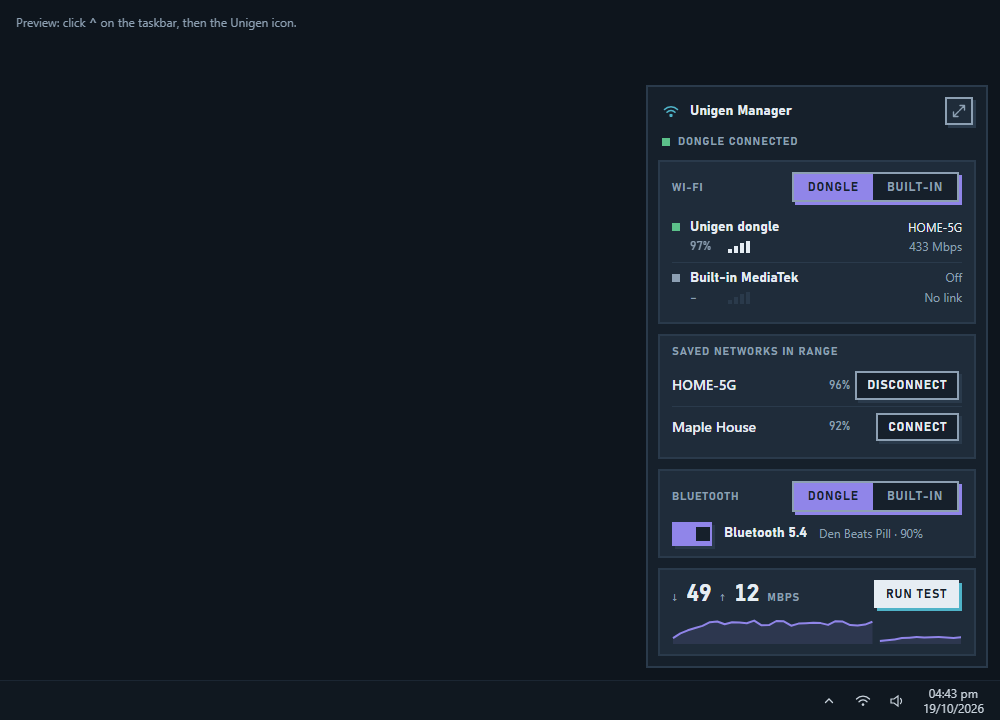
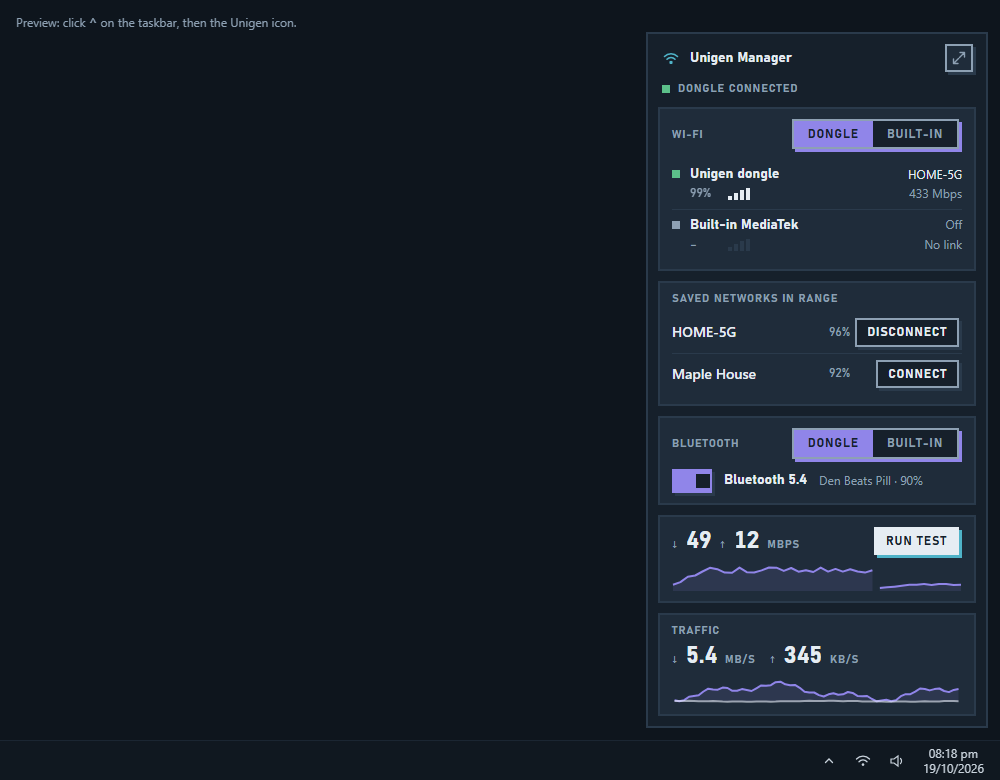
docs: describe the Traffic module; add its screenshot, refresh the widget one, and the manual checks

diff --git a/README.md b/README.md
@@ -12,7 +12,7 @@
 ![Python 3.10](https://img.shields.io/badge/Python-3.10-0E151D?style=flat-square&logo=python&logoColor=4FB3C8)
 ![pywebview](https://img.shields.io/badge/UI-pywebview%20%2B%20WebView2-0E151D?style=flat-square)
 ![anime.js](https://img.shields.io/badge/motion-anime.js%204-0E151D?style=flat-square)
-![Tests](https://img.shields.io/badge/tests-404%20passing-5CC08A?style=flat-square)
+![Tests](https://img.shields.io/badge/tests-445%20passing-5CC08A?style=flat-square)
 
 <a href="https://github.com/ApurvDas/unigen-manager/releases/latest/download/UnigenManager.exe"><img src="https://img.shields.io/badge/Download-UnigenManager.exe%20%C2%B7%2033%20MB-4FB3C8?style=for-the-badge&logo=windows&logoColor=white" alt="Download UnigenManager.exe" height="44"></a>
 
@@ -82,7 +82,23 @@ Older versions and checksums are on the [releases page](https://github.com/Apurv
 ### 🧭 Always-on tray widget
 - Live status of both adapters, the dongle's status, and both switches (Wi-Fi and Bluetooth), the same as in the main window.
 - Quick connect to saved networks, the Bluetooth on/off switch, and a mini speed test.
+- A **Traffic** section with the live download and upload and the last minute as a sparkline. Click the numbers to switch units.
 - Optional **Start with Windows**.
+
+</td>
+</tr>
+<tr>
+<td colspan="2" valign="top">
+
+### 📡 Traffic: what the Wi-Fi is pulling, second by second
+- **A Traffic page** (<kbd>Ctrl</kbd>+<kbd>4</kbd>) with the live **download** and **upload**, a **60-second chart** that scrolls once a second, and a **Today** card with each adapter's total so far.
+- **MB/s or Mbps:** a switch at the top of the page changes the units. It shows KB/s or MB/s by itself (or Kbps / Mbps), is remembered, and is shared by the main window and the tray widget. 1 MB/s is 8 Mbps.
+- **A live line on the Wi-Fi page**, under the Adapter switch, and the **rate in the tray icon's tooltip** (`Unigen dongle: HOME-5G, 97% · ↓4.2 MB/s ↑300 KB/s`).
+- **Read straight from Windows' own byte counters** for each Wi-Fi adapter, so it matches Task Manager's Wi-Fi graph. Nothing is added to the network, no packets are captured and nothing is installed.
+- **Today's totals are saved per day** in `%LOCALAPPDATA%\UnigenManager\traffic.json` (the last 30 days), so they survive a restart. They count **only while Unigen Manager runs**, which is why the app can start with Windows.
+- **Light on the PC:** one reading per adapter each second, no `netsh`, and the window only asks for new numbers while it is shown.
+
+<div align="center"><img src="docs/screenshots/traffic.png" alt="The Traffic page: download and upload readouts, a 60-second chart and today's totals per adapter" width="760"></div>
 
 </td>
 </tr>
@@ -194,7 +210,7 @@ py -3.10 app.py --install-shortcut
 
 | Action | How |
 |---|---|
-| Switch screens | Side menu, or <kbd>Ctrl</kbd>+<kbd>1</kbd> Wi-Fi · <kbd>Ctrl</kbd>+<kbd>2</kbd> Bluetooth · <kbd>Ctrl</kbd>+<kbd>3</kbd> Speed |
+| Switch screens | Side menu, or <kbd>Ctrl</kbd>+<kbd>1</kbd> Wi-Fi · <kbd>Ctrl</kbd>+<kbd>2</kbd> Bluetooth · <kbd>Ctrl</kbd>+<kbd>3</kbd> Speed · <kbd>Ctrl</kbd>+<kbd>4</kbd> Traffic |
 | Connect | Double-click a network, or select it and press <kbd>Enter</kbd> |
 | Delete a saved network, or remove a device | Press and hold the button for 1.5 s; let go early to cancel |
 | Open the widget | Click **^** on the taskbar, then the cyan icon. Click anywhere else or press <kbd>Esc</kbd> to close |
@@ -214,7 +230,7 @@ Opening the app again while it's running brings the existing window forward, so 
 
 The options work the same way on the `.exe`, for example `UnigenManager.exe --tray`.
 
-App data such as the last speed results and `app.log` lives in `%LOCALAPPDATA%\UnigenManager\`.
+App data such as the last speed results, today's traffic totals (`traffic.json`) and `app.log` lives in `%LOCALAPPDATA%\UnigenManager\`.
 
 ## Development
 
@@ -232,7 +248,7 @@ Then open:
 
 ```powershell
 py -3.10 -m pip install -r requirements-dev.txt
-py -3.10 -m pytest                 # 404 unit, contract and UI tests (UI tests drive the installed Microsoft Edge)
+py -3.10 -m pytest                 # 445 unit, contract and UI tests (UI tests drive the installed Microsoft Edge)
 py -3.10 -m pytest -m hardware     # read-only checks against the real adapters (changes nothing)
 ```
 
@@ -269,6 +285,9 @@ flowchart LR
     hw --> pnp["pnp.py<br/>SetupAPI device reads"]
     bt --> pnp
     api --> speed["speed.py<br/>ping, sampled HTTP"]
+    api --> traffic["traffic.py<br/>byte counters, 1 s sampler"]
+    app --> traffic
+    traffic --> wifi
     hw --> winrun
     wifi --> winrun["winrun.py<br/>argument lists only, no shell"]
     bt --> winrun
@@ -286,6 +305,7 @@ flowchart LR
 | `bt.py` | Bluetooth radio switching with its four reported steps, the read-only refusal probe, and audio connect |
 | `btwinrt.py` | Bluetooth through Windows' WinRT device APIs: paired list, live search, pairing with PIN prompts, unpair, radio power |
 | `speed.py` | Ping and per-adapter sampled download and upload |
+| `traffic.py` | Live Wi-Fi traffic: reads each Wi-Fi adapter's byte counters from Windows (iphlpapi `GetIfEntry2`), and a one-second sampler keeps the rate, the last minute and today's totals (`traffic.json`) |
 | `tray.py` | Tray icon, widget placement, Start with Windows, single instance |
 | `winrun.py` | The only place that starts processes |
 | `ui/` | `index.html`, `widget.html`, `shared.css`, `shared.js`, `mock-api.js`, vendored anime.js |
@@ -311,6 +331,7 @@ flowchart LR
 - **Two Bluetooth radios, two sets of pairings:** a device paired with only one radio shows **Re-pair** on the other. Each pairing needs the device in pairing mode while that radio is on, so the app can't pair a device with both radios in one go. **Hold to remove** on such a row unpairs it from the other radio too, which can fail while that radio is off.
 - Battery levels of Bluetooth LE-only devices (most mice and keyboards) aren't shown yet.
 - An adapter plugged in after the app starts appears after the app restarts.
+- **Traffic** counts Wi-Fi adapters only, and today's totals only while Unigen Manager is running (a day the app was closed shows less than Windows' own usage figures). The adapter in use is the one chosen with the Adapter switch; before the first switch, the first Wi-Fi adapter that is on.
 
 ## Built with
 

diff --git a/docs/superpowers/test-reports/manual-checklist.md b/docs/superpowers/test-reports/manual-checklist.md
@@ -36,6 +36,8 @@ Date: 2026-10-13 · Build: e295789
 
 | 24 | Bluetooth spike (deferred plan Task 1): turn on a paired speaker, run the spike script from an elevated prompt; after the app's Disconnect, connect from Windows Settings and confirm audio plays | Records whether `bt.SERVICE_TOGGLE` stays True (Connect/Disconnect work directly) or becomes False (always opens Settings) | |
 | 25 | Switch Wi-Fi, then Bluetooth with earbuds connected and audio playing; compare the bar with `app.log` | The bar's steps match the log (Wi-Fi up to 5, Bluetooth 4); a refusal fails in under about 20 s with the audio message and a red block; Connect works right after *moved*; no stale red line stays under the result; the log says how each device was disconnected and whether it dropped | |
+| 26 | Traffic (Ctrl 4): start a large download; compare with Task Manager › Performance › Wi-Fi | Download and upload agree within about 10%. The chart scrolls once a second, MB/s and Mbps switch (and the widget follows), the Wi-Fi page's live line and the tray tooltip show the same rate | |
+| 27 | Traffic: note Today's totals, quit from the tray, start the app again (also after midnight) | The totals are still there and keep counting; after midnight a new day starts at 0. `%LOCALAPPDATA%\UnigenManager\traffic.json` holds the last 30 days; `app.log` shows no traffic errors | |
 
 ## Sign-off
 - Failures and follow-ups:
